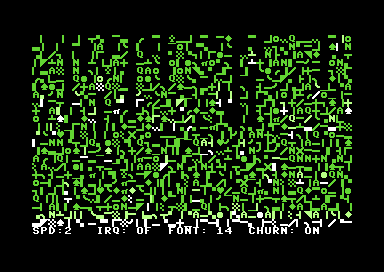
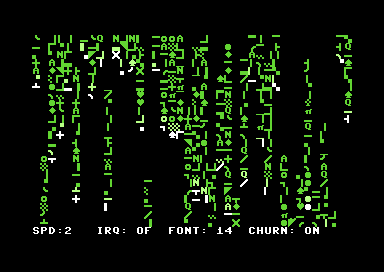
Fix tail draining IRQ safety and VICE startup

Changed region(s): [[0.0625, 0.1176, 0.9375, 0.8529], [0.0625, 0.5, 0.0938, 0.5294]]

diff --git a/tools/static_audit.py b/tools/static_audit.py
@@ -12,7 +12,16 @@ required = {
     'pending head state': 'HEAD_PENDING     = $FE',
     'inactive head state': 'HEAD_INACTIVE    = $FF',
     'pending spawn handler': 'AdvanceColumn_Spawn:',
+    'tail drain handler': 'AdvanceColumn_Drain:',
+    'tail drain cell clear': 'jsr ClearRainCell',
+    'uniform tail-length generator': 'RandTailLength:',
+    'tail-length rejection sampling': 'cmp #TAIL_LENGTH_RANGE',
     'saved IRQ vector': 'IrqVectorSaved:!byte 0',
+    'saved VIC IRQ mask': 'SavedVicIrqEn: !byte 0',
+    'saved raster register': 'SavedRaster:   !byte 0',
+    'saved VIC control register': 'SavedCtrl1:    !byte 0',
+    'IRQ frame scheduler': 'FramePending:  !byte 0',
+    'saved IRQ chain': 'jmp (SavedIrqLo)',
     'status screen code': 'SC_S = 19',
     'letter glyph range': 'adc #$01          ; screen codes for A..Z',
 }
@@ -24,6 +33,14 @@ if 'lda #$35\n  sta PROC_PORT' in source:
     errors.append('charset copy still exposes I/O instead of character ROM')
 if 'bne PollKeys_NextKey' in source:
     errors.append('out-of-range keyboard branch returned')
+if 'jmp $EA31' in source:
+    errors.append('IRQ handler bypasses the saved IRQ vector')
+if 'jsr UpdateRain\n  dex\n  bne IRQ_Steps' in source:
+    errors.append('full rain rendering still runs inside the IRQ handler')
+if 'and #((TAIL_LENGTH_MAX - TAIL_LENGTH_MIN) & $FF)' in source:
+    errors.append('tail-length generation still uses a biased bit mask')
+if 'lda #$7F\n  sta $DC0D' in source:
+    errors.append('IRQ setup still disables normal CIA/KERNAL timing')
 
 if errors:
     print('STATIC AUDIT FAILED')
@@ -32,4 +49,4 @@ if errors:
     raise SystemExit(1)
 
 print('STATIC AUDIT OK')
-print('character ROM mapping, spawn states, status row, IRQ restoration, and screen codes verified')
+print('character ROM mapping, spawn/drain states, status row, IRQ restoration, and screen codes verified')

diff --git a/README.md b/README.md
@@ -16,7 +16,8 @@ row. The image is an unmodified emulator capture of the built PRG.*
 - White head, light-green afterglow, green tail, and optional glyph churn.
 - Bottom-row status display that remains protected from the rain renderer.
 - VICE-friendly hotkeys, with polling in both frame-loop and raster-IRQ modes.
-- IRQ mode preserves and restores the pre-existing KERNAL IRQ vector.
+- IRQ mode uses a lightweight raster frame tick, preserves CIA/KERNAL timing,
+  and restores the prior VIC and KERNAL IRQ state when disabled.
 
 ## What you see
 
@@ -42,8 +43,10 @@ make run
 ```
 
 The build produces `build/c64-matrix-screensaver.prg`, with a BASIC loader that
-runs the program at `$2000` (`SYS 8192`). `make run` uses `x64sc`; set
-`VICE=x64` if your installation uses that executable name.
+runs the program at `$2000` (`SYS 8192`). `make run` uses VICE's standard
+post-boot monitor command support to load the PRG and jump to `$2000`; this is
+reliable on VICE versions where direct PRG autostart can stop at the BASIC
+prompt. Set `VICE=x64` if your installation uses that executable name.
 
 `make audit` is a source-level regression check, not an emulator replacement.
 It validates the character-ROM mapping, state transitions, protected OSD row,
@@ -69,11 +72,13 @@ RAM copy of the C64 character ROM at `$1000`–`$1FFF`. Rain writes only rows
 0–23. Row 24 is exclusively owned by `DrawStatus`, so animation cannot erase
 the control feedback.
 
-Each column transitions through three explicit states: pending spawn, active
-head row, and inactive. A pending column enters at row 0; an inactive column
-uses the PRNG and `SPAWN_RATE_MASK` to determine when to re-enter. This makes
-the first frame visible and prevents the unsigned `$FE/$FF` spawn values from
-being mistaken for off-screen rows.
+Each column transitions through pending spawn, an on-screen head row, a virtual
+off-screen drain phase, and inactive. A pending column enters at row 0; after
+the head passes row 23, its tail continues to fade and clear before the column
+becomes inactive. The inactive phase uses the PRNG and `SPAWN_RATE_MASK` to
+determine when to re-enter. This makes the first frame visible, prevents the
+unsigned `$FE/$FF` spawn values from being mistaken for off-screen rows, and
+prevents completed streams from leaving stale characters behind.
 
 ## Program flow
 
@@ -84,17 +89,20 @@ each column and `AdvanceColumn` moves, paints, fades, or respawns that stream.
 and glyph selection. `PollKeys` consumes queued keyboard input on every frame.
 
 With IRQ mode off, `Mainloop` waits for a frame and performs the selected number
-of updates. With IRQ mode on, the raster handler performs the same updates at
-raster line 250 and chains to the KERNAL handler. `EnableIRQ` saves the prior
-KERNAL vector once; `DisableIRQ` restores it before returning to frame-loop
-mode. `CopyCharset` temporarily exposes the character ROM at `$D000`, copies
-it to `$1000`–`$1FFF`, and restores the CPU memory map.
+of updates. With IRQ mode on, the raster handler at line 250 only records a
+frame tick; rendering remains in the main loop, avoiding long work inside an
+interrupt. It then chains to the previously installed handler. `EnableIRQ`
+saves the KERNAL vector and VIC IRQ state once; `DisableIRQ` restores both
+before returning to frame-loop mode. `CopyCharset` temporarily exposes the
+character ROM at `$D000`, copies it to `$1000`–`$1FFF`, and restores the CPU
+memory map.
 
 ## Project layout
 
 - `src/matrix_screensaver.s` — complete 6502 assembly program.
 - `tools/static_audit.py` — regression guards for memory mapping, spawn logic,
   status-row protection, and IRQ-vector restoration.
+- `tools/vice_run.mon` — deterministic VICE startup script used by `make run`.
 - `AUDIT.md` — concrete fixes made during the independent import.
 - `assets/matrix-screensaver-vice.png` — verified VICE capture used above.
 

diff --git a/AUDIT.md b/AUDIT.md
@@ -13,9 +13,20 @@
   so status labels display as letters.
 - Corrected the random-letter path to generate contiguous `A`–`Z` screen
   codes instead of a sparse unintended subset.
-- Preserved and restored the previous IRQ vector instead of forcing `$EA31`.
+- Added a drain state so a stream tail keeps fading and clears completely after
+  its head leaves the visible rows; it no longer freezes on screen.
+- Replaced masked tail-length selection with rejection sampling, providing an
+  unbiased value across every configured length from 10 through 20.
+- Changed raster IRQ mode into a lightweight frame scheduler. Rendering now
+  runs outside the interrupt handler, preventing long IRQ latency at higher
+  update speeds.
+- Preserved and restored the previous IRQ vector and VIC IRQ state. Raster mode
+  now chains through the saved vector and leaves normal CIA/KERNAL timing
+  enabled instead of silently disabling it.
 
 ## Verification
 
-`make audit` checks the key invariants in source form. `make build` assembles a
-CBM PRG and verifies the expected BASIC `SYS 8192` loader.
+`make audit` checks the key invariants in source form, including tail draining,
+unbiased tail selection, vector chaining, VIC-state restoration, and the
+absence of rendering work inside the IRQ handler. `make build` assembles a CBM
+PRG and verifies the expected BASIC `SYS 8192` loader.

diff --git a/CHANGELOG.md b/CHANGELOG.md
@@ -1,5 +1,20 @@
 # Changelog
 
+## 0.0.2 — 2026-09-25
+
+Audit and correctness release.
+
+- Added virtual off-screen tail draining, so every stream fades out and clears
+  instead of leaving stale characters after its head exits the screen.
+- Made tail lengths uniformly selectable across the full configured 10–20 range.
+- Reworked IRQ mode into a short raster frame scheduler; rendering no longer
+  runs inside the IRQ handler.
+- Preserved CIA/KERNAL timing and the original VIC IRQ state, then chained
+  through the saved IRQ vector instead of assuming the stock KERNAL entry.
+- Replaced unreliable direct VICE PRG autostart in `make run` with a
+  deterministic post-boot VICE monitor script.
+- Expanded source-level audit coverage and refreshed the verified VICE capture.
+
 ## 0.0.1 — 2026-09-25
 
 Initial independent release of C64 Matrix Screensaver.
